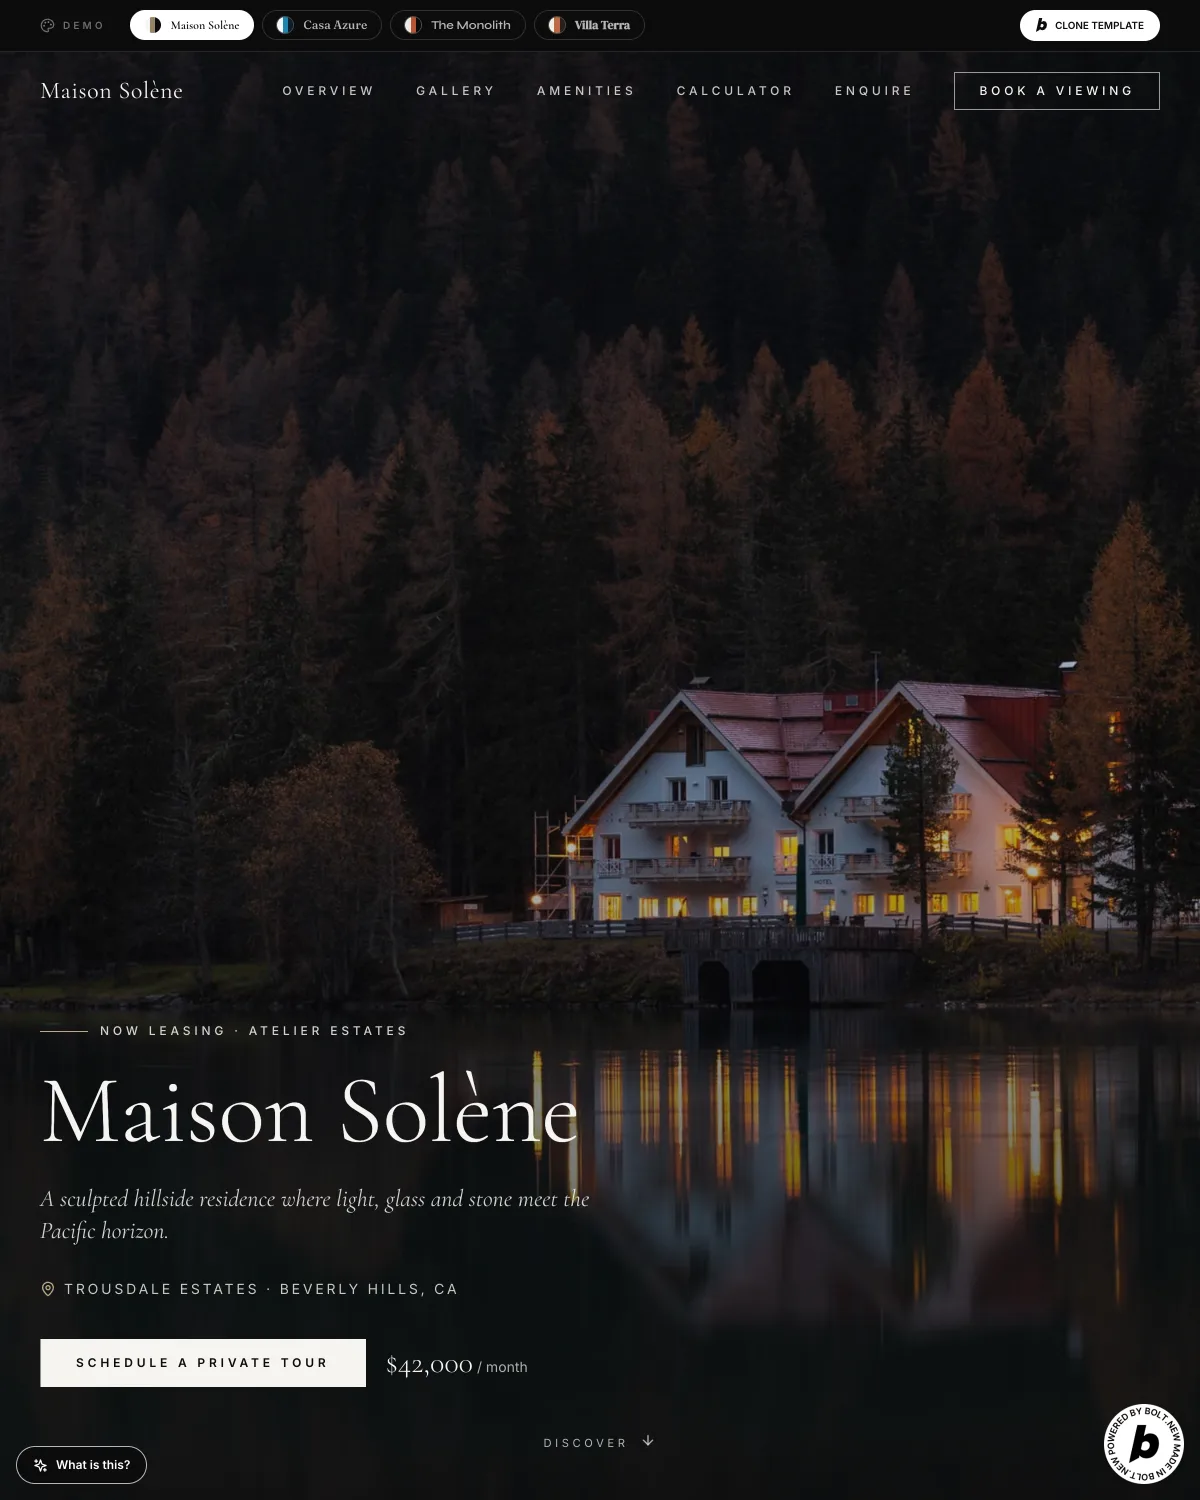
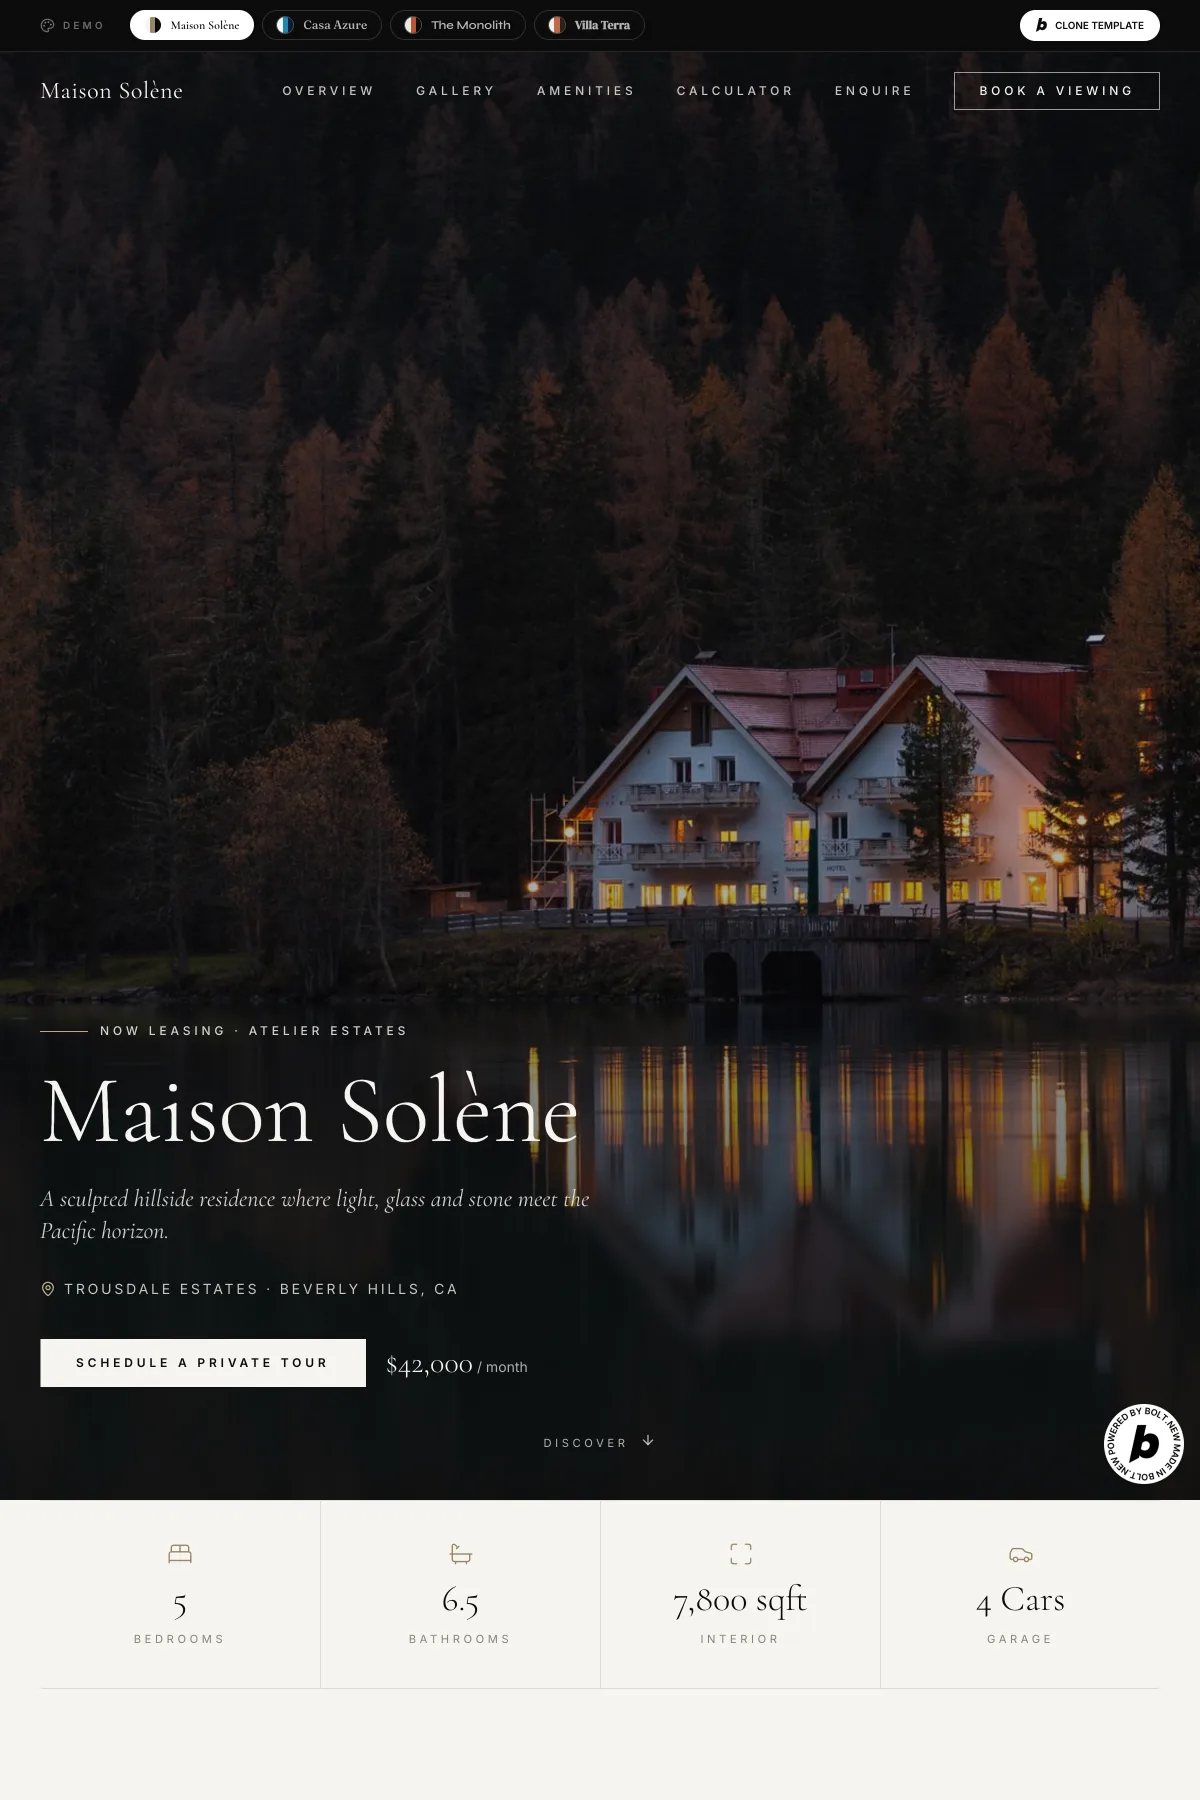
marketing/templates: Property Listing pans on hover (full-page shot)
It's a full multi-section site, so it should hover-scroll like the other
websites — not sit static like the single-screen apps. Recapture as a tall
full-page shot (Maison Solène hero + the section below, promo popup removed)
and switch from fill mode to shot mode so the card shows the hero at rest
and drifts the ~40px on hover into real content.

diff --git a/marketing/templates/detail/index.html b/marketing/templates/detail/index.html
@@ -1930,7 +1930,7 @@ var CATALOG = [
   { name: 'Social Analytics',       tag: 'internal', desc: 'Engagement, reach, and top-post reporting across social platforms.', shot: '../images/social-pulse.webp', gallery: ['../images/gallery/social-pulse-1.webp'] },
   { name: 'Buyer Rep Compensation Calculator', tag: 'apps', desc: 'Model buyer-agent commission scenarios and generate plain-language comparison reports.', shot: '../images/buyer-rep-calc.webp', fill: true, gallery: ['../images/gallery/buyer-rep-calc-1.webp'] },
   { name: 'Parcel Viewer App',      tag: 'apps', desc: 'County parcel data with zoning, flood, ownership, and tax-assessment overlays.', shot: '../images/parcel-viewer.webp', fill: true, gallery: ['../images/gallery/parcel-viewer-1.webp'] },
-  { name: 'Property Listing Website', tag: 'websites', desc: 'Responsive property search with filters, map view, and lead capture.', shot: '../images/property-listing.webp', fill: true, gallery: ['../images/gallery/property-listing-1.webp'] },
+  { name: 'Property Listing Website', tag: 'websites', desc: 'Responsive property search with filters, map view, and lead capture.', shot: '../images/property-listing.webp', gallery: ['../images/gallery/property-listing-1.webp'] },
   { name: 'Tenant Screening Portal', tag: 'apps', desc: 'Applicant intake, background checks, custom scoring, and a landlord dashboard.', shot: '../images/tenant-screening.webp', fill: true, gallery: ['../images/gallery/tenant-screening-1.webp'] },
 ];
 

diff --git a/marketing/templates/index.html b/marketing/templates/index.html
@@ -2018,7 +2018,7 @@ var CATALOG = [
   { name: 'Social Analytics',       abbr: 'SA', color: 'mint', tag: 'internal', desc: 'Engagement, reach, and top-post reporting across social platforms.', shot: 'images/social-pulse.webp' },
   { name: 'Buyer Rep Compensation Calculator', abbr: 'BR', color: 'mint', tag: 'apps', desc: 'Model buyer-agent commission scenarios and generate plain-language comparison reports.', shot: 'images/buyer-rep-calc.webp', fill: true },
   { name: 'Parcel Viewer App',      abbr: 'PV', color: 'blue', tag: 'apps', desc: 'County parcel data with zoning, flood, ownership, and tax-assessment overlays.', shot: 'images/parcel-viewer.webp', fill: true },
-  { name: 'Property Listing Website', abbr: 'PL', color: 'amber', tag: 'websites', desc: 'Responsive property search with filters, map view, and lead capture.', shot: 'images/property-listing.webp', fill: true },
+  { name: 'Property Listing Website', abbr: 'PL', color: 'amber', tag: 'websites', desc: 'Responsive property search with filters, map view, and lead capture.', shot: 'images/property-listing.webp' },
   { name: 'Tenant Screening Portal', abbr: 'TS', color: 'salmon', tag: 'apps', desc: 'Applicant intake, background checks, custom scoring, and a landlord dashboard.', shot: 'images/tenant-screening.webp', fill: true },
 ];
 
